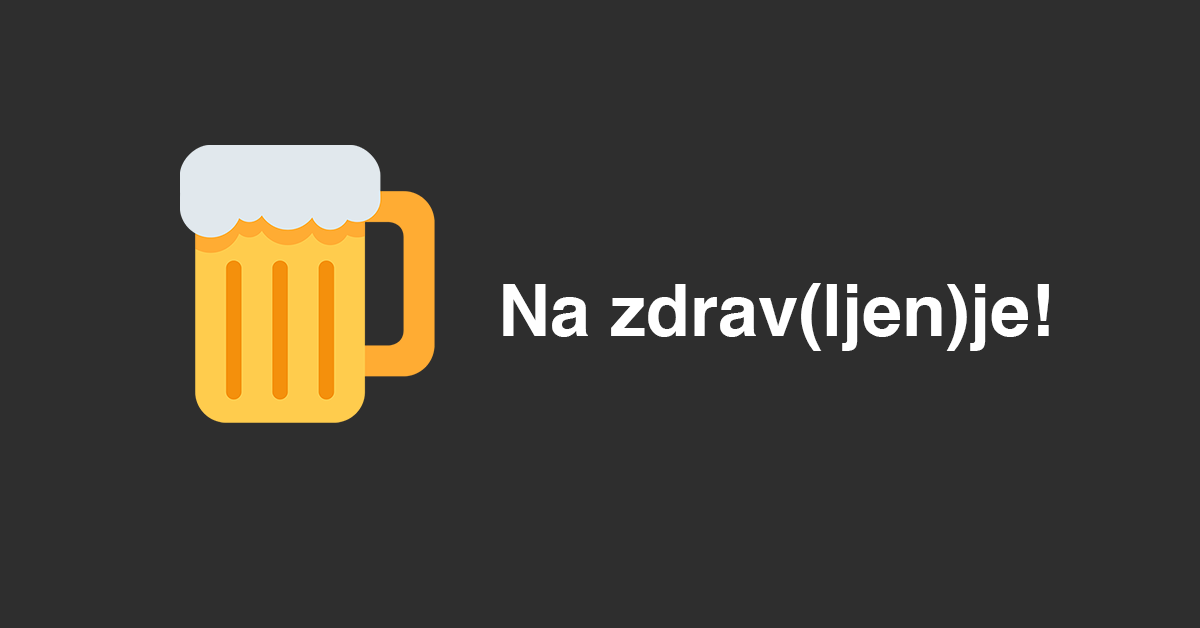
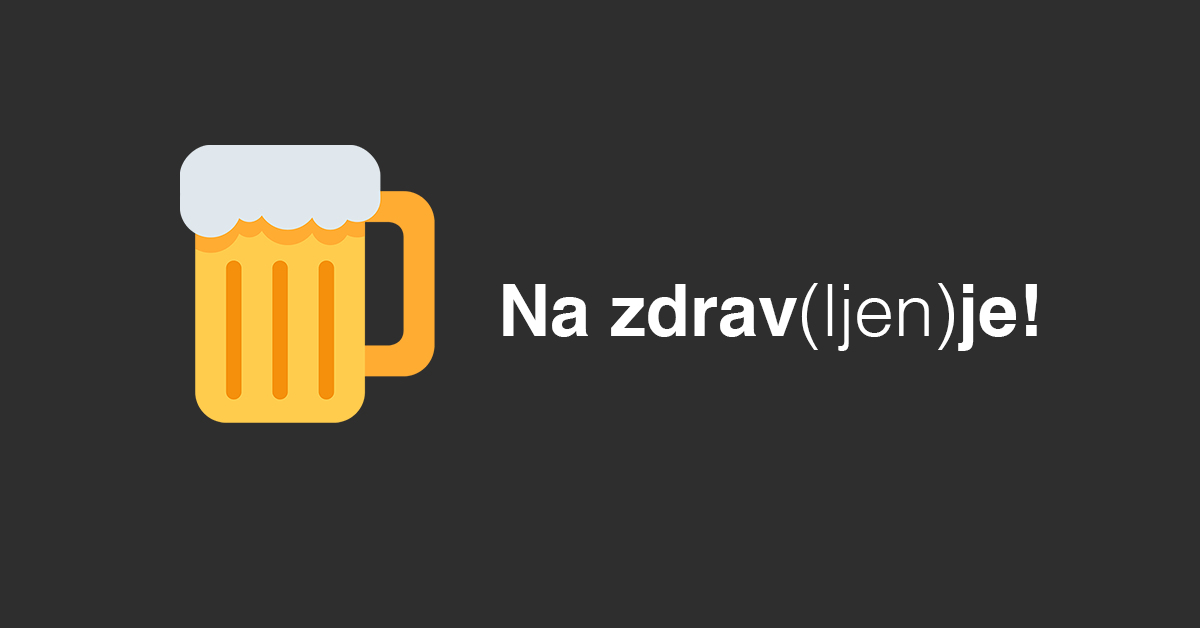
Added error page when API data is not available

Changed region(s): [[0.6475, 0.4538, 0.8942, 0.5748]]

diff --git a/templates/index.html b/templates/index.html
@@ -62,7 +62,7 @@
     <!-- Navbar brand -->
     <a class="navbar-brand" href="#" onClick="window.location.reload();">
       <img src="/static/images/beer_emoji.png" width="30" height="30" class="d-inline-block align-top" alt="pivicka">&nbsp
-      Na zdrav(ljen)je!
+      <b>Na zdrav</b>(ljen)<b>je!</b>
     </a>
 
     <!-- Collapse button -->
@@ -86,12 +86,12 @@
       <button id="btnAdd" class="btn btn-block btn-warning">Namesti aplikacijo</button>
   </nav>
 
-  <div class="table-responsive">
+  <div class="table-responsive" id="mainDiv">
     <table id="dataTable" class="table table-striped table-hover table-elegant-color" style="margin-bottom: 0px !important;"></table>
   </div>
 
   <!-- Footer -->
-    <footer class="page-footer elegant-color text-center">
+    <footer class="page-footer elegant-color text-center" id="footerDiv">
       <div class="container">
         <div class="row">
           <div class="col text-center">
@@ -206,6 +206,8 @@
     var populationHealthyShare = {{ populationHealthyShare | tojson | safe }};
 
     var coronaData = JSON.parse({{corona_data | tojson | safe}});
+    
+    var goodResponse = "{{ goodResponse }}"
 
     function tableCreate() {
       var headers = ["Država", "Populacija", "Okuženi", "Danes okuženi", "Obolevnost", "Umrli", "Umrljivost", "Ozdraveli"];
@@ -271,7 +273,17 @@
       }
       tbl.appendChild(tbdy);
     }
-    tableCreate();
+
+    if(goodResponse == "True") {
+      tableCreate();  
+    }
+    else {
+      var mainDiv = document.getElementById("mainDiv");
+      mainDiv.innerHTML = '<div class="text-center" style="margin-top: 50px !important;"><h1>Dostop do podatkov trenutno ni mogoč! 😟</h1><p class="lead">Uporabite alternativne spletne aplikacije za pregled podatkov.<br>👉 <a href="https://www.arcgis.com/apps/opsdashboard/index.html#/bda7594740fd40299423467b48e9ecf6">COVID-19 Tracker by CSSE</a></p></div>';
+      var footerDiv = document.getElementById("footerDiv")
+      footerDiv.setAttribute("style", "position: fixed; bottom: 0; width: 100%;")
+    }
+    
 
     // Zaženemo plugin za sortiranje
     new Tablesort(document.getElementById("dataTable"), {

diff --git a/server.py b/server.py
@@ -16,6 +16,9 @@ Compress(app)
 #app.config['TEMPLATES_AUTO_RELOAD'] = True
 sslify = SSLify(app)
 
+# API za risanje grafa poteka okužbe
+#https://coronavirus-tracker-api.herokuapp.com/all
+
 countries = []
 population = []
 infected = []
@@ -31,8 +34,12 @@ populationDeadShare = []
 populationCuredShare = []
 populationHealthyShare = []
 
+country_response = None
+corona_response = None
+good_response = True
+
 def process_data():
-    global countries, population, infected, infectedToday, dead, deadToday, cured, active, critical, infectedRatio, deadRatio, populationCuredShare, populationDeadShare, populationHealthyShare, country_response, corona_response
+    global countries, population, infected, infectedToday, dead, deadToday, cured, active, critical, infectedRatio, deadRatio, populationCuredShare, populationDeadShare, populationHealthyShare, country_response, corona_response, good_response
     countries.clear()
     population.clear()
     infected.clear()
@@ -50,6 +57,13 @@ def process_data():
     
     country_data = json.loads(country_response.text)
     corona_data = json.loads(corona_response.text)
+
+    print(len(corona_data))
+
+    if len(corona_data) == 0:
+        good_response = False
+        return
+    good_response = True
 
     #? Prilagodimo imena držav
     for i in range(len(country_data)):
@@ -103,12 +117,8 @@ def process_data():
         critical[i] = '{:,}'.format(critical[i])
         population[i] = '{:,}'.format(population[i])
 
-country_response = requests.get("https://restcountries.eu/rest/v2/all")
-corona_response = requests.get("https://coronavirus-19-api.herokuapp.com/countries")
-now = datetime.datetime.now() + datetime.timedelta(hours=1)
-data_time = now.strftime("%d.%m.%Y %H:%M")
-
-process_data()
+    print("Data process complete")
+    sys.stdout.flush()
 
 def get_data():
     global corona_response, country_response, data_time
@@ -119,6 +129,8 @@ def get_data():
     process_data()
     print("API Update complete")
     sys.stdout.flush()
+
+get_data()
 
 @app.route('/')
 def index():
@@ -139,7 +151,8 @@ def index():
         deadRatio=deadRatio,
         populationDeadShare=populationDeadShare,
         populationCuredShare=populationCuredShare,
-        populationHealthyShare=populationHealthyShare)
+        populationHealthyShare=populationHealthyShare,
+        goodResponse=good_response)
 
 @ext.register_generator
 def sitemap():
